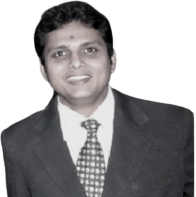
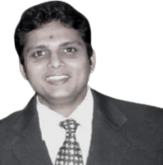
Modification: DP Changed

diff --git a/index.html b/index.html
@@ -97,7 +97,7 @@
       <span class="container-item">
         <!-- <div style="justify-content: last baseline">&lt;/&gt;</div> -->
         <img
-          src="./images/dp-pulkit-1.png"
+          src="./images/dp-pulkit.png"
           id="img-class"
           style="
             -webkit-filter: drop-shadow(10px 10px 10px #222);
